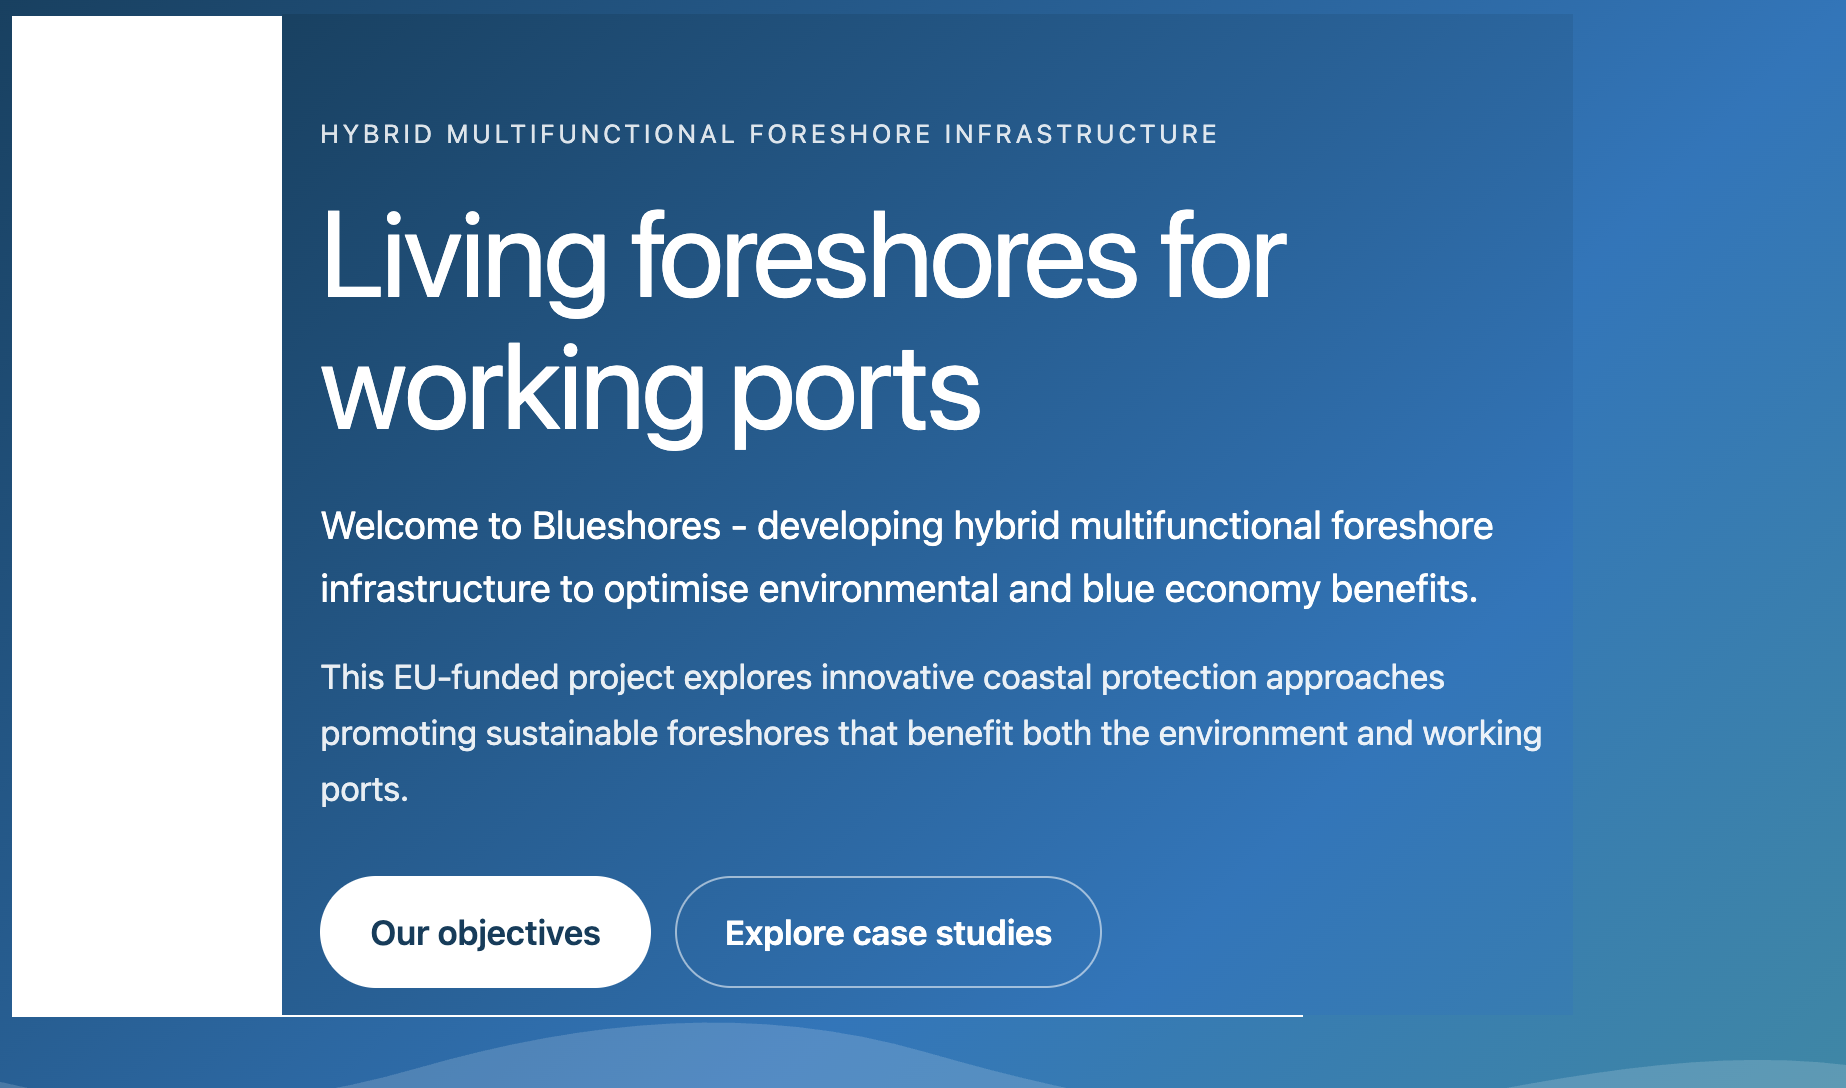
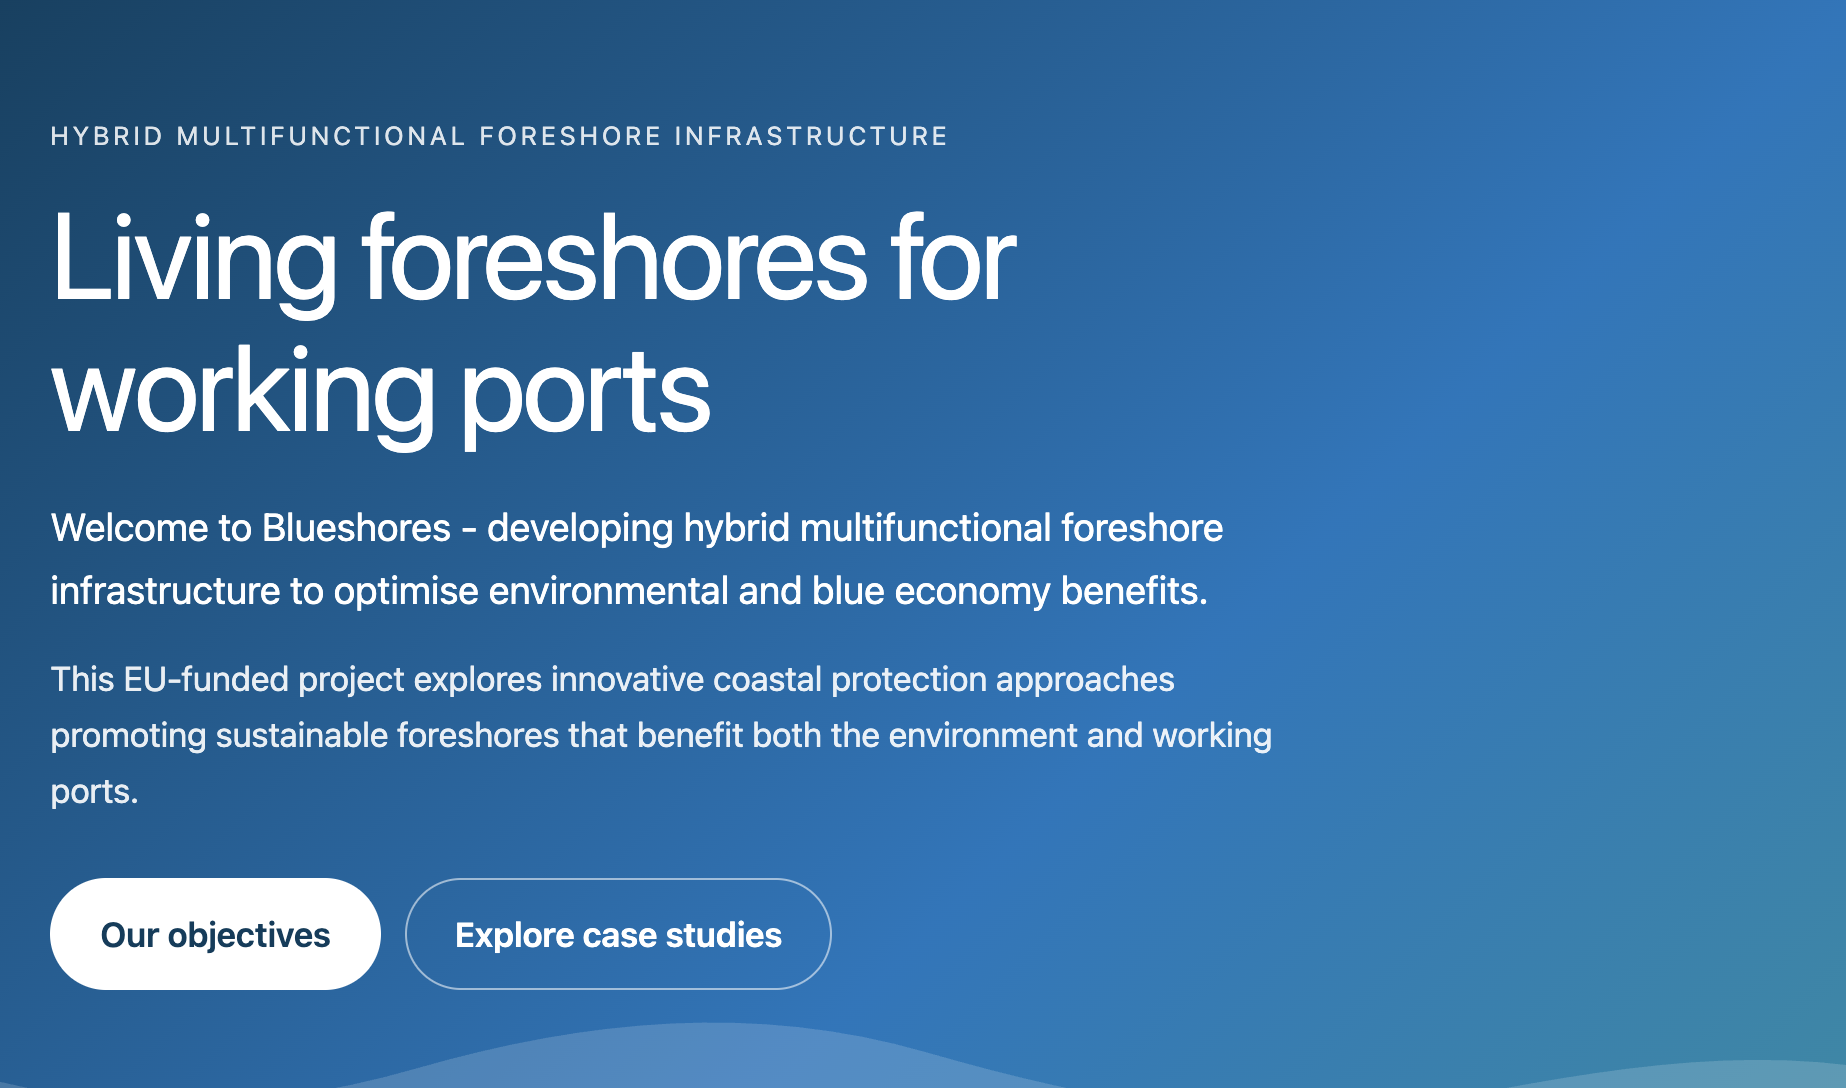
added news ocean decade

Changed region(s): [[0.0, 0.0, 0.8337, 0.9375], [0.4014, 0.7812, 0.4323, 0.8125]]

diff --git a/docs/_posts/2026-03-05-un-ocean-decade-endorsement.md b/docs/_posts/2026-03-05-un-ocean-decade-endorsement.md
@@ -1,0 +1,27 @@
+---
+layout: news-post
+title: "BLUESHORES officially endorsed by the UN Ocean Decade"
+date: 2026-03-05 12:00:00 +0100
+label: Announcement
+summary: "BLUESHORES has been officially endorsed by IOC-UNESCO as a Decade Action contributing to the UN Decade of Ocean Science for Sustainable Development (2021–2030)."
+image: /assets/img/posts/ocean-decade.png
+image_alt: "BLUESHORES endorsed by the UN Ocean Decade"
+image_caption: ""
+links:
+  - label: "Explore the UN Ocean Decade"
+    url: "https://oceandecade.org/"
+tags: [BLUESHORES, OceanDecade, UNESCO, OceanScience, CoastalResilience, NatureBasedSolutions, BlueGreenInfrastructure, SustainableBlueEconomy]
+---
+
+We are delighted to announce that BLUESHORES has been officially endorsed by the Intergovernmental Oceanographic Commission of UNESCO (IOC-UNESCO) as a Decade Action contributing to the United Nations Decade of Ocean Science for Sustainable Development (2021–2030).
+
+This international recognition marks an important milestone for BLUESHORES and acknowledges the project's contribution to developing science-based solutions for sustainable and resilient coastal environments.
+
+BLUESHORES develops and tests hybrid blue-green foreshore infrastructure designed to protect vulnerable shorelines while restoring habitats, supporting biodiversity, reducing reliance on carbon-intensive materials, and generating sustainable blue economy opportunities.
+
+Field experiments, stakeholder engagement, environmental monitoring, numerical modelling and cost-benefit assessment, are central activities in the project to generate evidence and practical guidance for scaling up innovative coastal protection solutions across Europe and beyond.
+
+As an endorsed Decade Action, BLUESHORES is committed to advancing the Ocean Decade principles of co-design, stakeholder participation, open and accessible data, knowledge sharing and collaboration with the international ocean science community.
+
+The endorsement provides new opportunities to establish synergies with other Ocean Decade initiatives, and together, we contribute to the Ocean Decade vision of **"the science we need for the ocean we want."**
+
